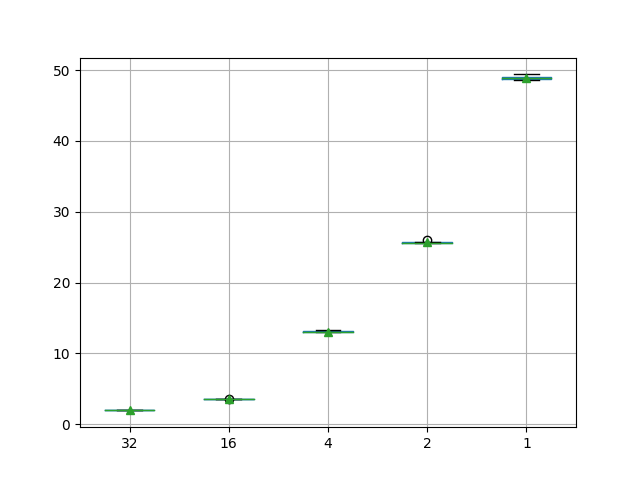
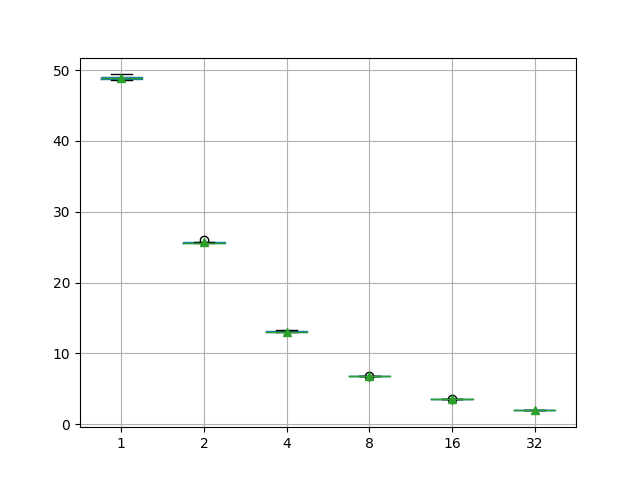
Datos RFR

diff --git a/GeneradorGraficas/main.py b/GeneradorGraficas/main.py
@@ -52,10 +52,8 @@ else:
     print("Formato no soportado")
     sys.exit()
 
-boxplot = df.boxplot(column=['32', '16', '4', '2', '1']
+boxplot = df.boxplot(column=['1', '2', '4', '8', '16', '32']
                     ,showfliers=True, showmeans=True)
-
-sns.pointplot(x='group', y='value', data=df.groupby('group', as_index=False).mean(), ax=ax)
 
 # output file name
 plot_file_name="./Graficos/DockerHub_OpenMP_TC.png"
@@ -64,5 +62,3 @@ plot_file_name="./Graficos/DockerHub_OpenMP_TC.png"
 boxplot.figure.savefig(plot_file_name,
                     format='png',
                     dpi=100)
-
-
